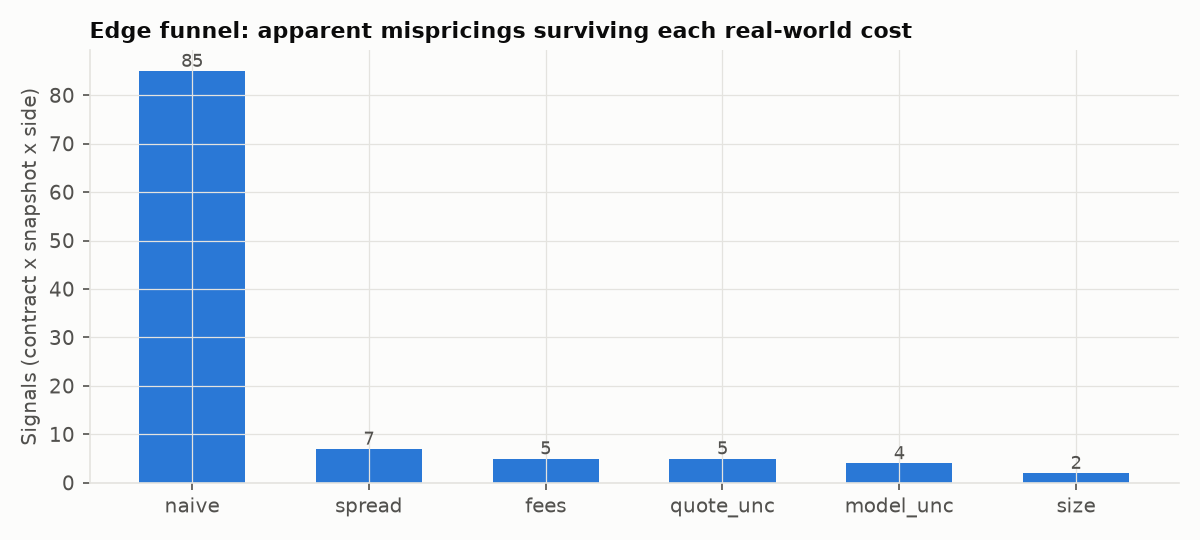
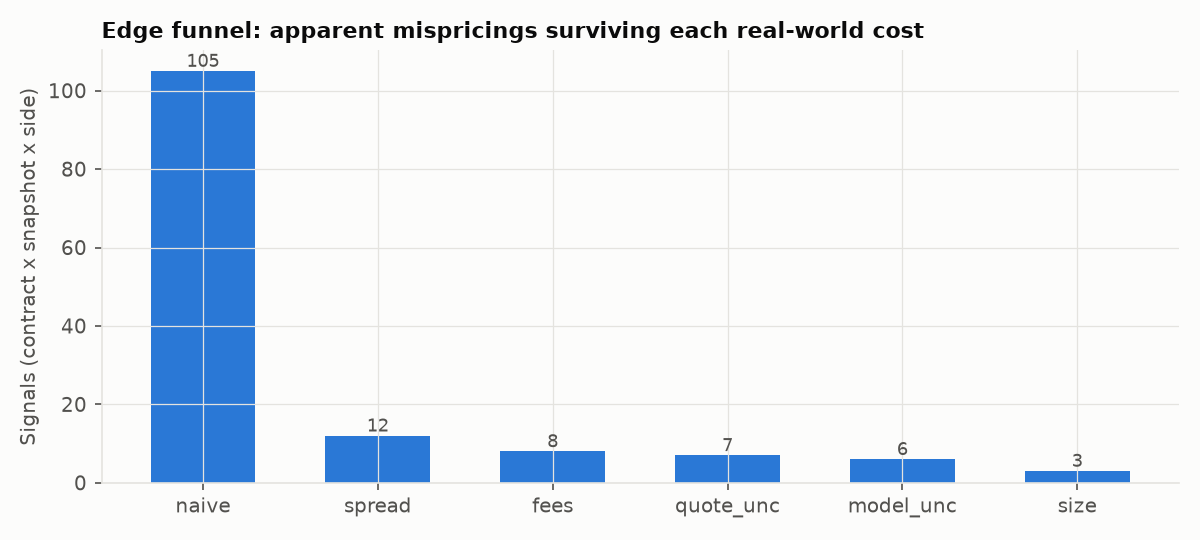
data: 2026-10-16T17:34Z

diff --git a/results/REPORT.md b/results/REPORT.md
@@ -1,24 +1,24 @@
 # Kalshi vs options: research report
-_Generated 2026-10-15 17:50 UTC by `python -m kme report`. Every figure below is computed from files in `data/`; sections without enough data say so._
+_Generated 2026-10-16 17:34 UTC by `python -m kme report`. Every figure below is computed from files in `data/`; sections without enough data say so._
 
 ## Data coverage
-- Panel rows: 240 (240 live, 0 backfill); rows without a synchronised Kalshi quote: 1
-- Candle-replay check (candle state at fetch time == live book, live rows): 97.9% of 239 rows agree
-- Snapshots: 5; events: 5; first decision 2026-10-09T19:44:21.670578+00:00, last 2026-10-15T17:29:09.753377+00:00
-- Settled events with outcomes: 3
-- Smile model chosen: {'spline': 4, 'svi': 1}
+- Panel rows: 300 (300 live, 0 backfill); rows without a synchronised Kalshi quote: 2
+- Candle-replay check (candle state at fetch time == live book, live rows): 97.0% of 298 rows agree
+- Snapshots: 7; events: 5; first decision 2026-10-09T19:44:21.670578+00:00, last 2026-10-16T17:03:58.816172+00:00
+- Settled events with outcomes: 4
+- Smile model chosen: {'spline': 6, 'svi': 1}
 
 ## Edge funnel
 Stages are cumulative (see `src/kme/edge.py`). Kalshi prices are synchronised to the option chain's as-of time, so this measures mispricing; it is a tradeable backtest only with a real-time option feed. Model-error tolerance = 0.0021 (range contracts, same-day only). P&L is per contract after fees, t-stat clusters by event day, shown only with >= 40 settled event days.
 
 | stage     |   signals |   contracts_distinct |   event_days |   settled_signals |   settled_days |   mean_pnl |   hit_rate |   daily_mean |   t_stat |
 |:----------|----------:|---------------------:|-------------:|------------------:|---------------:|-----------:|-----------:|-------------:|---------:|
-| naive     |        85 |                   41 |            5 |                12 |              3 |        nan |        nan |          nan |      nan |
-| spread    |         7 |                    7 |            4 |                 4 |              2 |        nan |        nan |          nan |      nan |
-| fees      |         5 |                    5 |            4 |                 2 |              2 |        nan |        nan |          nan |      nan |
-| quote_unc |         5 |                    5 |            4 |                 2 |              2 |        nan |        nan |          nan |      nan |
-| model_unc |         4 |                    4 |            3 |                 2 |              2 |        nan |        nan |          nan |      nan |
-| size      |         2 |                    2 |            2 |                 1 |              1 |        nan |        nan |          nan |      nan |
+| naive     |       105 |                   43 |            5 |                14 |              4 |        nan |        nan |          nan |      nan |
+| spread    |        12 |                   11 |            4 |                 6 |              3 |        nan |        nan |          nan |      nan |
+| fees      |         8 |                    8 |            4 |                 4 |              3 |        nan |        nan |          nan |      nan |
+| quote_unc |         7 |                    7 |            4 |                 4 |              3 |        nan |        nan |          nan |      nan |
+| model_unc |         6 |                    6 |            4 |                 4 |              3 |        nan |        nan |          nan |      nan |
+| size      |         3 |                    3 |            3 |                 2 |              2 |        nan |        nan |          nan |      nan |
 
 ## Which forecast was better? (log score on the realised range)
 ```
